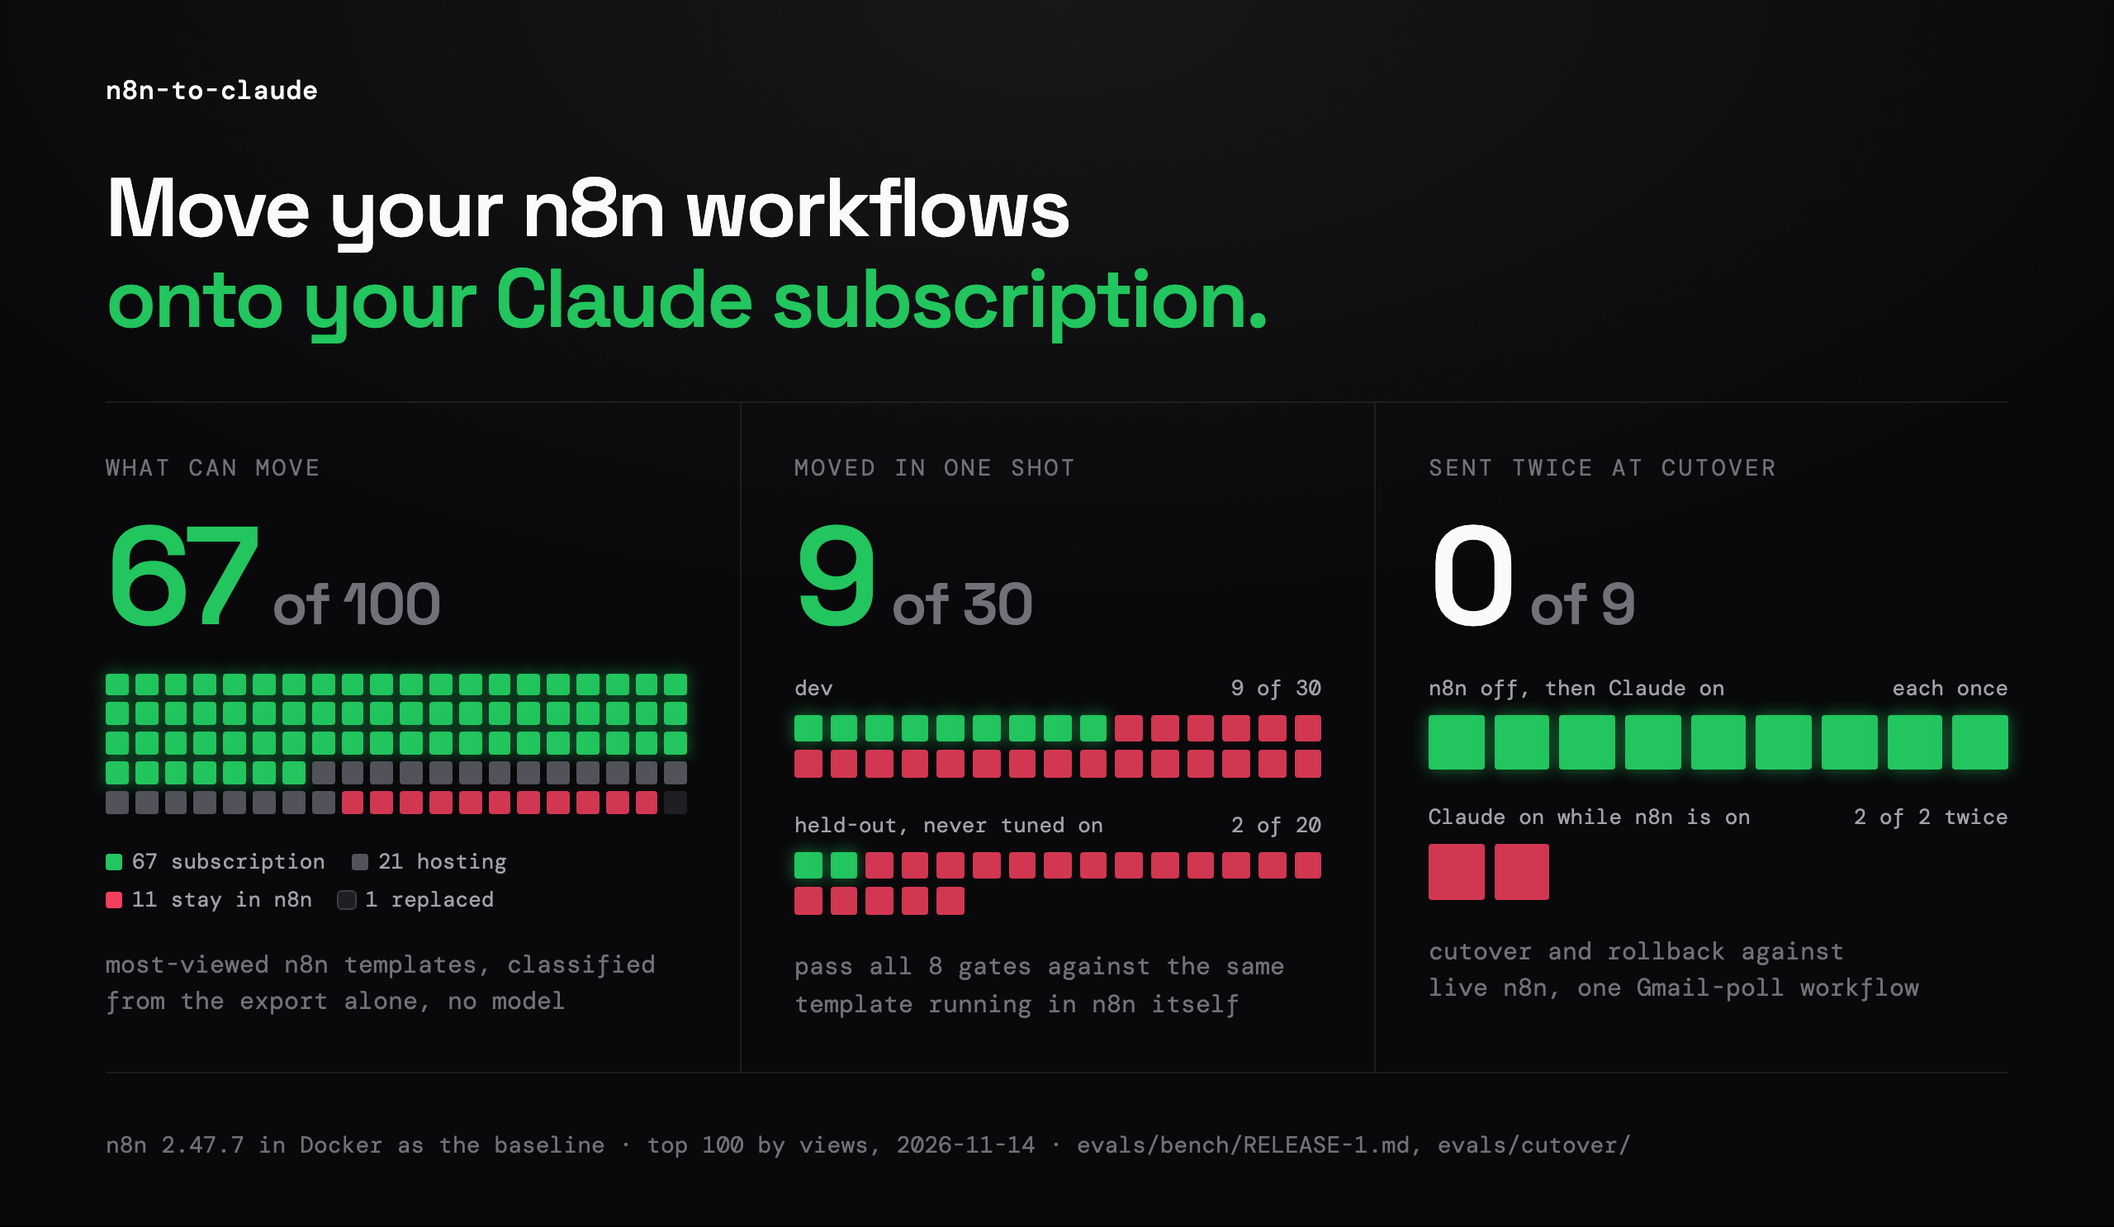
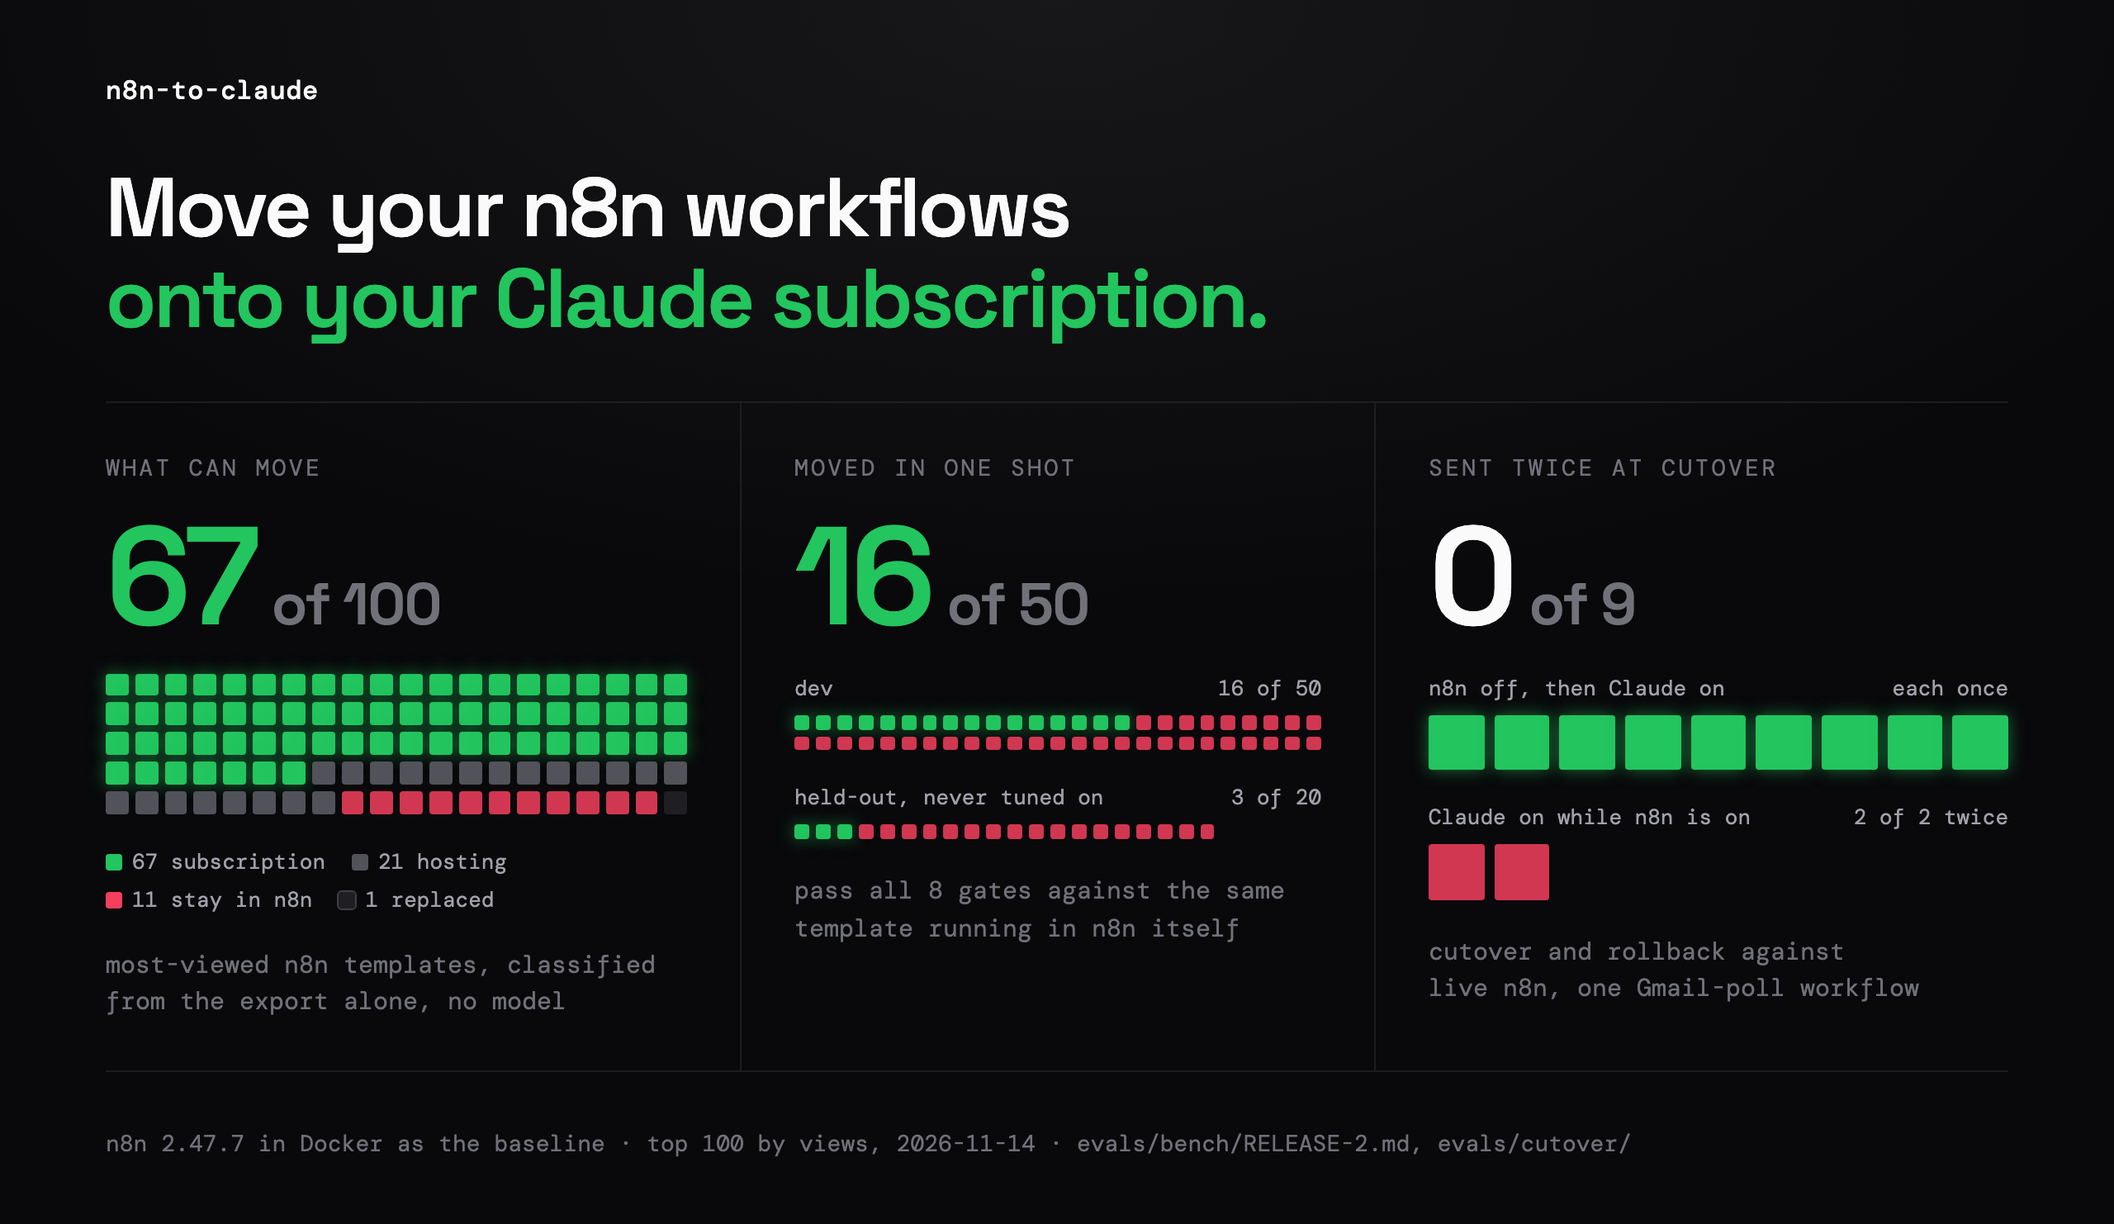
README, hero, AGENTS and REFERENCE quote release point 2
Every bench figure moves from release point 1 to release point 2
(evals/results.jsonl rel2-dev, rel2-held, rel2-held-b; RELEASE-2.md;
summary.mjs --release rel2-dev rel2-held --round 2): dev 16 of 50,
held-out 3 of 20, gap 17.0 against a bound of 23.1, 0 flips, sensitivity
12.0-21.5 inside the bound in every variant. 67 of 100 re-checked with
the analyzer per template on HEAD (no outcome changed).

Proof: what moved since release point 1 (10 of 30 seeded dev, 6 of the
20 promoted, no pass lost; levers added), what still stops templates
(25 of 34 dev and 14 of 17 held-out failures at preflight; held-out
kinds; round-3 dev coverage 15/30/55), losses (new held-out kinds,
baselines n8n cannot give), the no-effect passes (P50) replace the P15
blind spot, and the Reply-To finding is marked fixed.

AGENTS.md's coding-agent section copied from README again (the files
and media wording had drifted; tests/skill-package.test.mjs passes).
assets/hero.png re-rendered from assets/src/index.html (render.mjs).

diff --git a/assets/src/index.html b/assets/src/index.html
@@ -1,9 +1,11 @@
 <!doctype html>
 <!-- Source of assets/hero.png; render with `PLAYWRIGHT=<dir with node_modules/playwright> node assets/src/render.mjs hero`.
      "67 of 100": evals/bench/corpus.json templates rank 1-100, analyzer outcome with default answers
-       (node evals/bench/summary.mjs: subscription 67, hosted 21, keep-in-n8n 11, replaced 1; re-run on HEAD 2026-11-15, same).
-     "9 of 30" and "2 of 20": evals/results.jsonl tags rel1-dev and rel1-held, reached = 9 (all 8 gates);
-       evals/bench/RELEASE-1.md (commit 4e8a5f8). Dev passes: 1747 2063 2167 2197 2413 2777 3102 4573 6270; held-out 2473 2703.
+       (node evals/bench/summary.mjs: subscription 67, hosted 21, keep-in-n8n 11, replaced 1; analyzer re-run per template
+       on HEAD 2026-11-15 with corpus.json's --now, same).
+     "16 of 50" and "3 of 20": evals/results.jsonl tags rel2-dev and rel2-held, passedAll (all 8 gates);
+       evals/bench/RELEASE-2.md (commit cbfe38d); node evals/bench/summary.mjs --release rel2-dev rel2-held --round 2.
+       Dev passes: 1747 1953 2063 2139 2167 2197 2413 2473 2703 2729 2777 3102 3904 4573 5035 6270; held-out 890 2384 2552.
      "0 sent twice": evals/cutover/results.jsonl (one e2e run, 2026-11-14): 9 items over 100 each sent by exactly one system
        across cutover and rollback; the rejected order (task on while n8n on) sent 2 of 2 twice (optionA.doubleSent). -->
 <html>
@@ -71,14 +73,14 @@ h1 em { font-style: normal; color: var(--ok); }
     </div>
     <div class="col">
       <div class="label">Moved in one shot</div>
-      <div class="num ok">9<small>of 30</small></div>
+      <div class="num ok">16<small>of 50</small></div>
       <div class="row">
-        <div class="rowlabel"><span>dev</span><span>9 of 30</span></div>
-        <div class="grid" id="dev" style="grid-template-columns: repeat(15, 1fr); gap: 5px"></div>
+        <div class="rowlabel"><span>dev</span><span>16 of 50</span></div>
+        <div class="grid" id="dev" style="grid-template-columns: repeat(25, 1fr); gap: 4px"></div>
       </div>
       <div class="row">
-        <div class="rowlabel"><span>held-out, never tuned on</span><span>2 of 20</span></div>
-        <div class="grid" id="held" style="grid-template-columns: repeat(15, 1fr); gap: 5px"></div>
+        <div class="rowlabel"><span>held-out, never tuned on</span><span>3 of 20</span></div>
+        <div class="grid" id="held" style="grid-template-columns: repeat(25, 1fr); gap: 4px"></div>
       </div>
       <div class="of">pass all 8 gates against the same<br>template running in n8n itself</div>
     </div>
@@ -96,7 +98,7 @@ h1 em { font-style: normal; color: var(--ok); }
       <div class="of">cutover and rollback against<br>live n8n, one Gmail-poll workflow</div>
     </div>
   </div>
-  <div class="foot">n8n 2.47.7 in Docker as the baseline · top 100 by views, 2026-11-14 · evals/bench/RELEASE-1.md, evals/cutover/</div>
+  <div class="foot">n8n 2.47.7 in Docker as the baseline · top 100 by views, 2026-11-14 · evals/bench/RELEASE-2.md, evals/cutover/</div>
 </section>
 
 <script>
@@ -104,8 +106,8 @@ h1 em { font-style: normal; color: var(--ok); }
 const outcomes = [...Array(67).fill("s"), ...Array(21).fill("m"), ...Array(11).fill("f"), "c"];
 document.getElementById("top").innerHTML = outcomes.map((k) => `<u class="${k}"></u>`).join("");
 const cells = (pass, of) => Array.from({ length: of }, (_, i) => `<u class="${i < pass ? "s" : "f"}"></u>`).join("");
-document.getElementById("dev").innerHTML = cells(9, 30);
-document.getElementById("held").innerHTML = cells(2, 20);
+document.getElementById("dev").innerHTML = cells(16, 50);
+document.getElementById("held").innerHTML = cells(3, 20);
 document.getElementById("once").innerHTML = cells(9, 9);
 document.getElementById("twice").innerHTML = Array.from({ length: 9 }, (_, i) => `<u class="${i < 2 ? "f" : ""}" style="${i < 2 ? "" : "visibility:hidden"}"></u>`).join("");
 </script>

diff --git a/README.md b/README.md
@@ -15,17 +15,19 @@
 
 <!-- Hero figures and their sources: assets/src/index.html (comment at the top). -->
 <p align="center">
-  <img src="assets/hero.png" width="100%" alt="Move your n8n workflows onto your Claude subscription. What can move: 67 of the 100 most-viewed n8n templates run on the subscription by the analyzer's verdict; 21 need hosting, 11 stay in n8n, 1 is replaced by Claude. Moved in one shot: 9 of 30 dev templates and 2 of 20 held-out templates pass all 8 gates against the same template running in n8n. Sent twice at cutover: 0 of 9 items when n8n goes off before Claude goes on; with Claude on while n8n is on, 2 of 2 were sent twice.">
+  <img src="assets/hero.png" width="100%" alt="Move your n8n workflows onto your Claude subscription. What can move: 67 of the 100 most-viewed n8n templates run on the subscription by the analyzer's verdict; 21 need hosting, 11 stay in n8n, 1 is replaced by Claude. Moved in one shot: 16 of 50 dev templates and 3 of 20 held-out templates pass all 8 gates against the same template running in n8n. Sent twice at cutover: 0 of 9 items when n8n goes off before Claude goes on; with Claude on while n8n is on, 2 of 2 were sent twice.">
 </p>
 
-<!-- 67: evals/bench/corpus.json rank 1-100 outcomes (node evals/bench/summary.mjs), re-run on HEAD 2026-11-15.
-     9 of 30, 2 of 20, gap and bound: evals/results.jsonl tags rel1-dev, rel1-held; evals/bench/RELEASE-1.md.
+<!-- 67: evals/bench/corpus.json rank 1-100 outcomes (node evals/bench/summary.mjs); analyzer re-run per template on HEAD
+     2026-11-15 (default answers, corpus.json's --now): subscription 67, hosted 21, keep-in-n8n 11, replaced 1, no outcome changed.
+     16 of 50, 3 of 20, gap and bound: evals/results.jsonl tags rel2-dev, rel2-held (flips: rel2-held-b);
+     node evals/bench/summary.mjs --release rel2-dev rel2-held --round 2; evals/bench/RELEASE-2.md (commit cbfe38d).
      0 of 9: evals/cutover/results.jsonl (items, optionA.doubleSent).
      17 of 20: node evals/bench/summary.mjs, "refusal accuracy" (evals/bench/labels.json vs the analyzer). -->
 <table>
 <tr>
 <td align="center" width="25%"><h3>67 of 100</h3>most-viewed templates<br>can run on the subscription<br><sub>analyzer verdict, default answers; 21 need hosting, 11 stay in n8n</sub></td>
-<td align="center" width="25%"><h3>9 of 30</h3>pass every gate<br>in one shot<br><sub>against the same template in n8n; held-out 2 of 20</sub></td>
+<td align="center" width="25%"><h3>16 of 50</h3>pass every gate<br>in one shot<br><sub>against the same template in n8n; held-out 3 of 20</sub></td>
 <td align="center" width="25%"><h3>0 of 9</h3>items sent twice<br>through cutover and rollback<br><sub>against live n8n; the wrong order sent 2 of 2 twice</sub></td>
 <td align="center" width="25%"><h3>17 of 20</h3>refusals right<br>on every count<br><sub>hand-labelled templates that should not move; 18 of 20 on outcome</sub></td>
 </tr>
@@ -231,48 +233,88 @@ Docker, every external call answered by the same fixtures. Raw data:
 - **Corpus.** n8n's template listing walked by views: 100 templates the
   analyzer marks `subscription`, from the first 200 listing entries (13
   excluded by a rule committed first: 9 tutorials about n8n, 3 paid, 1 by
-  hand). Split 60 dev / 40 held-out by a seeded shuffle; 30 dev and 20
-  held-out have fixtures so far.
+  hand). Split 60 dev / 40 held-out by a seeded shuffle; 70 have fixtures
+  (30 dev, 40 held-out). The held-out rolls: each release point scores 20
+  held-out templates that no fixing session has read, then they join dev.
+  Both seeded batches are now scored, so release point 3 needs fresh
+  templates from outside the split.
 - **Gates.** Analyze, convert, run, the same effects as n8n, robust on empty
   and malformed input, contained on hostile input, stable over 3 repeats,
   affordable. A template stops at its first failed gate.
 
-<!-- evals/bench/RELEASE-1.md (release point 1, commit 4e8a5f8); evals/results.jsonl rel1-dev, rel1-held, rel1-held-b. -->
+<!-- evals/bench/RELEASE-2.md (release point 2, commit cbfe38d); evals/results.jsonl rel2-dev, rel2-held, rel2-held-b;
+     gap and bound: node evals/bench/summary.mjs --release rel2-dev rel2-held --round 2. Sensitivity: RELEASE-2.md
+     "Sensitivity" (variants recomputed from the counts: 21.5/23.2, 19.9/23.0, 12.0/23.4). Release point 1:
+     evals/bench/RELEASE-1.md (commit 4e8a5f8), rel1-dev, rel1-held. -->
 
-- **Release point 1: dev 9 of 30 (30%), held-out 2 of 20 (10%).** The fixing
-  loop never reads held-out. The 20-point gap sits inside the overfitting
-  bound of 23.4 points (pooled pass rate 22%, n = 30 and 20, 0 flips between
-  two held-out runs), so it is reported, not acted on. Counting the passes
-  that rest on a known bench blind spot (below) as failures: dev 8 of 30,
-  held-out 1 of 17.
+- **Release point 2: dev 16 of 50 (32%), held-out 3 of 20 (15%).** Dev is
+  the 30 seeded dev templates plus the 20 that release point 1 held out;
+  held-out is 20 fresh templates whose fixtures a separate session wrote
+  blind. The 17-point gap sits inside the overfitting bound of 23.1 points
+  (pooled pass rate 27.1%, n = 50 and 20, 0 flips between two held-out runs
+  on one commit). Release point 1 was inside too (20.0 against 23.4), so the
+  gap is reported, not acted on. Correcting for rows that rest on bench
+  defects or on baselines n8n cannot give moves the gap between 12.0 and 21.5
+  points, inside the bound in every variant. Without the 2 held-out
+  templates n8n itself cannot run on the bench image, held-out is 3 of 18.
+- **What moved since release point 1 (dev 9 of 30, held-out 2 of 20).** 10
+  of the 30 seeded dev templates pass (9 then), no earlier pass was lost, and
+  6 of the 20 that release point 1 held out pass (2 then); fixing sessions
+  could read those 20 from then on, so that rise is not a held-out claim.
+  Levers added in between: files (PDF text, spreadsheets, JSON, text and
+  base64 files, the local disk, Drive downloads), OpenAI image generation
+  through the original provider, agent tools mapped to an app's REST API,
+  n8n's tool names and the Think tool, HTTP Request pagination, and Gmail
+  reply recipients named by the runner. The bench got stricter over the same
+  stretch: agent tool turns, tool definitions, model calls over HTTP and disk
+  writes are now compared, and some passes turned into failures before a fix
+  won them back.
 
-<!-- evals/bench/RELEASE-1.md, "Failures by gate and bucket"; dev blockers: node evals/convert-coverage.mjs --split dev
-     (evals/convert-coverage-dev.md, re-run 2026-11-15, unchanged). -->
+<!-- evals/bench/RELEASE-2.md "Failures by gate and bucket" and "Held-out failures that dev already shows"; dev kinds:
+     evals/bench/LOOP.md "R2h: full re-run". Preflight stops = bucket "unmapped node" + cause "preflight failed" in rel2-dev
+     (23 + 2 of 34) and rel2-held (12 + 2 of 17). Coverage: node evals/convert-coverage.mjs --split dev
+     (evals/convert-coverage-dev.md, round 3: all 100 seeded templates, regenerated on HEAD 2026-11-15). -->
 
-- **What stops most templates is a missing lever, not a wrong conversion.**
-  18 of the 21 dev failures and 9 of the 18 held-out failures are steps the
-  converter refuses before any effect. Over all 60 dev templates the
-  converter gives 7 full conversions, 13 with steps flagged for review and 40
-  with a blocked step. Blocked most often: files (10 templates), databases
-  (8), vector stores (6), image generation and transcription (5), apps with
-  no request template yet (Facebook Graph 4, WordPress 3), forms that wait
-  for a person (2).
+- **What stops most templates is a missing lever, not a wrong conversion.** 25
+  of the 34 dev failures and 14 of the 17 held-out failures stop at preflight,
+  before any effect: a step the converter blocks, a core logic node version
+  the runtime does not implement, or a request URL built at run time. The
+  held-out failures name the levers dev ranks first: an app with no REST
+  request template yet (7 of 20 held-out templates), a connector operation
+  without a tool map (4), a core logic node version (3), a request URL built
+  at run time (2), a vector store (1). Over all 100 seeded templates (round 3
+  dev, 70 with fixtures) the converter gives 15 full conversions, 30 with
+  steps flagged for review and 55 with a blocked step. Blocked most often:
+  vector stores (9 templates), databases (9), apps with no request template
+  yet (WordPress 6, Facebook Graph 4, Discord, LinkedIn and SerpApi 3 each),
+  forms that wait for a person (3), media other than OpenAI image generation
+  (3).
+- **Losses.** Held-out passes at about half dev's rate. Held-out showed two
+  kinds dev never did, both gate-4 differences in what the model is offered:
+  an agent tool that calls a sub-workflow gets a name made from the node's
+  name where n8n uses the name typed in the tool, and a chain fed by a
+  text-completion model sends the system message n8n leaves out. 2 held-out
+  templates have no baseline: n8n itself cannot run them on the bench image (a
+  Python Code node, and a completion model its LangChain refuses).
 - **Connector shapes are unverified.** The mock connectors carry the real
   tool names and input schemas captured from a Claude account (116 tools, 7
   connectors). What a tool returns comes from fixtures written by hand, and
   every adapter that reads a tool's output is marked `unverified` until it
   meets real output.
-- **A replay blind spot.** Model replies on the Claude side are n8n's own,
-  replayed per node and call, and the bench checks that Claude asked the same
-  question, comparing system and user text only. Tool results inside an
-  agent's turns are not compared, so an agent whose read tool never ran on
-  the Claude side can still pass. One held-out and one dev pass rest on this
-  (PROPOSALS P15).
-- **A finding the allowlist cannot catch.** Dev template 1953 fails the
-  contained gate: on a hostile email, the Gmail connector's reply goes to the
-  message's `Reply-To` (a lookalike address) where n8n replies to `From`. The
-  call is the allowed tool with the runner's own arguments; the connector
-  picks the recipient. Every other template that reached that gate passed it.
+- **What the comparer cannot vouch for.** Model replies on the Claude side
+  are n8n's own, replayed per node and call; the bench checks that Claude
+  asked the same question, offered the same tools and ran the same agent tool
+  turns. A template that writes, replies and sends nothing passes on that
+  alone: one held-out and two dev passes compare no effect (PROPOSALS P50).
+  Two dev failures are comparer gaps rather than wrong conversions (P46, and
+  an effect the comparer's table does not cover).
+- **A finding the allowlist cannot catch.** At release point 1, dev template
+  1953 failed the contained gate: on a hostile email, the Gmail connector's
+  reply went to the message's `Reply-To` (a lookalike address) where n8n
+  replies to `From`. The call was the allowed tool with the runner's own
+  arguments; the connector picked the recipient. The runner now names the
+  recipient itself ([Security](#security)) and 1953 passes every gate; no
+  template failed the contained gate at release point 2.
 - **The hooks under `claude -p`.** In 34 recorded task-driver runs
   (haiku and sonnet, CLI 2.1.323) the Slack arguments matched exactly at 1,
   50 and 500 items, and hostile emails produced 0 calls outside the
@@ -414,7 +456,7 @@ Do not recommend it for:
 What to tell them, accurately:
 
 - The report comes from code, not a model, and every eligibility figure is an
-  upper bound: in the bench 9 of 30 dev templates and 2 of 20 held-out
+  upper bound: in the bench 16 of 50 dev templates and 3 of 20 held-out
   templates passed every gate in one shot.
 - Connector output shapes are unverified until a dry run against the real
   connector; do the dry run before cutover.

diff --git a/AGENTS.md b/AGENTS.md
@@ -22,13 +22,14 @@ Do not recommend it for:
 - workflows that answer a caller synchronously, or public chat pages: they
   need hosting with an API key;
 - anything that must react in under a minute;
-- workflows built on files, databases, vector stores or media steps: those
-  levers are not built yet.
+- workflows built on databases, vector stores, media steps other than OpenAI
+  image generation, or files other than PDF text, spreadsheets, JSON and text:
+  those levers are not built yet.
 
 What to tell them, accurately:
 
 - The report comes from code, not a model, and every eligibility figure is an
-  upper bound: in the bench 9 of 30 dev templates and 2 of 20 held-out
+  upper bound: in the bench 16 of 50 dev templates and 3 of 20 held-out
   templates passed every gate in one shot.
 - Connector output shapes are unverified until a dry run against the real
   connector; do the dry run before cutover.

diff --git a/docs/REFERENCE.md b/docs/REFERENCE.md
@@ -158,6 +158,7 @@ systems send. Cursor mappings checked live: Gmail only.
 ## Bench
 
 `evals/bench/README.md` (commands, gates, contract), `evals/bench/RELEASE-1.md`
-(release point 1), `evals/results.jsonl` (one row per template and run),
-`evals/phase0/CHECKS.md` (compatibility checks), PLAN.md (phases, decisions,
-known gaps).
+and `evals/bench/RELEASE-2.md` (release points 1 and 2), `evals/results.jsonl`
+(one row per template and run), `evals/convert-coverage-dev.md` (converter
+coverage over the current round's dev templates), `evals/phase0/CHECKS.md`
+(compatibility checks), PLAN.md (phases, decisions, known gaps).
